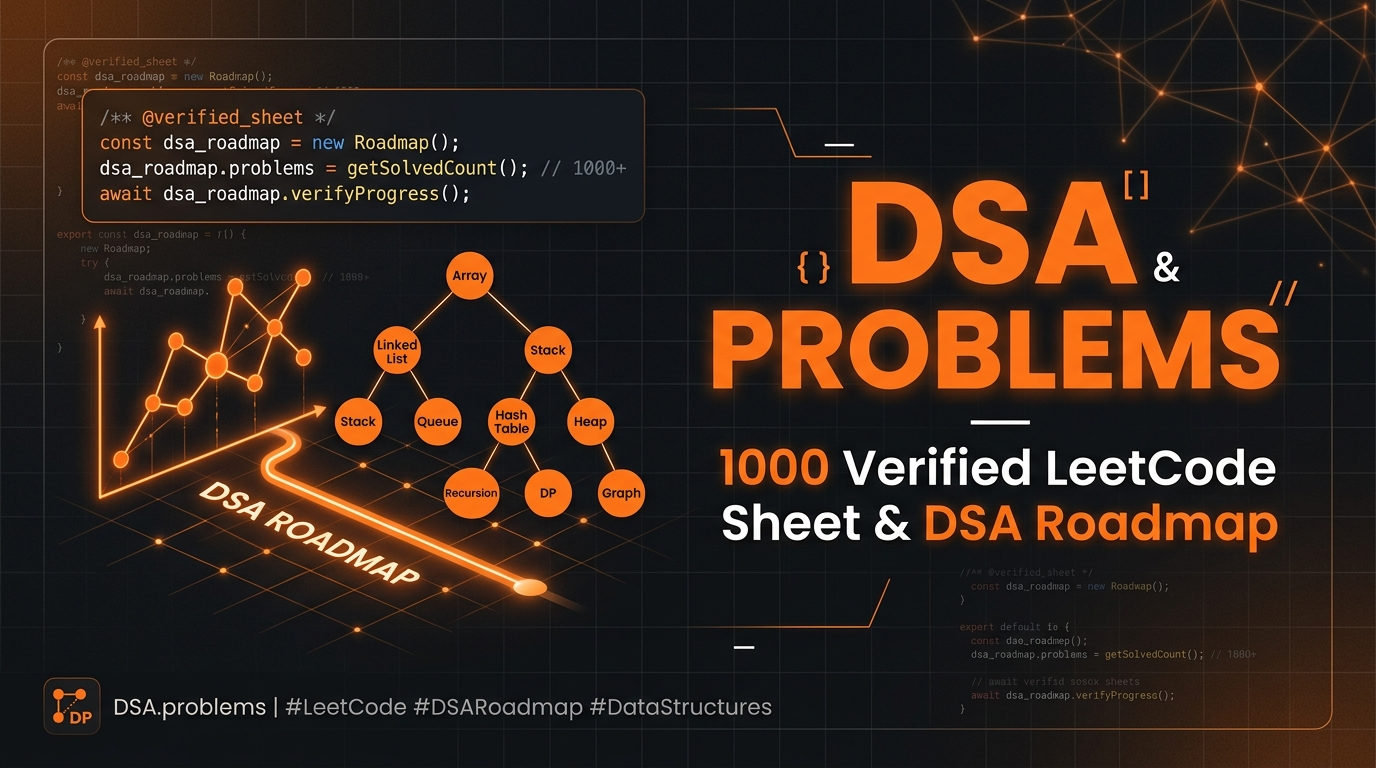
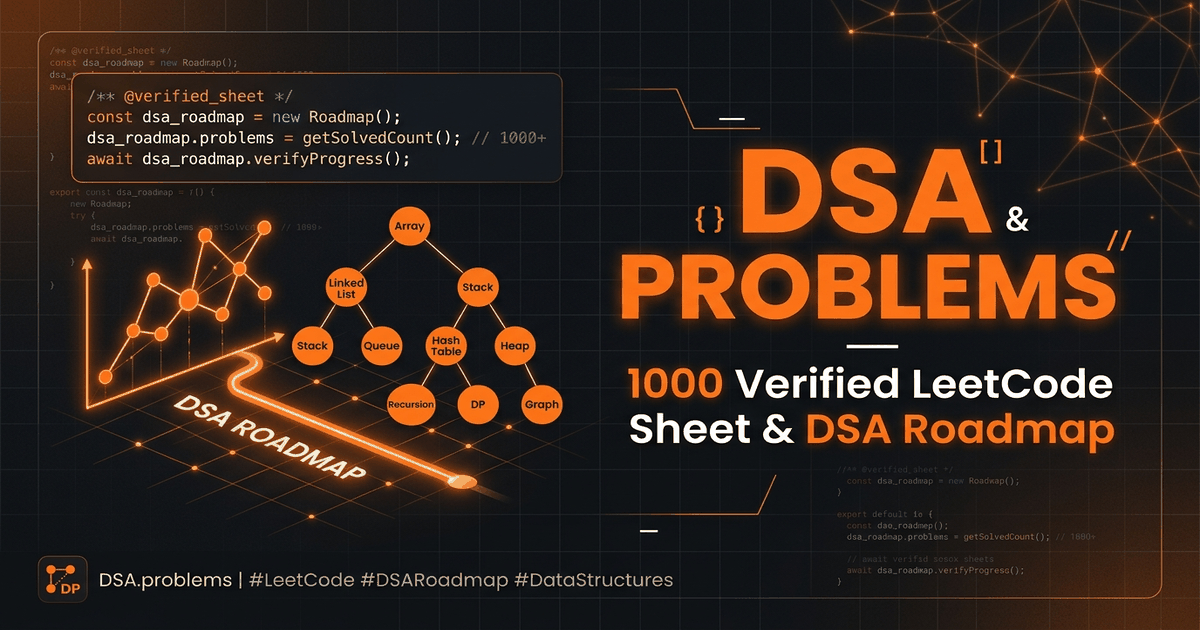
perf & a11y & ai: optimize Core Web Vitals, accessibility, JSON-LD schemas, and Agentic AI readiness

diff --git a/index.html b/index.html
@@ -237,7 +237,6 @@
 
 <!-- Datasets & Modules (Non-blocking deferred execution) -->
 <script defer src="data/questions_index.min.js"></script>
-<script defer src="data/questions.min.js"></script>
 <script defer src="data/guide_data.min.js"></script>
 <script defer src="data/patterns.js"></script>
 <script defer src="data/ds_algo_library.js"></script>
@@ -246,6 +245,23 @@
 <script defer src="js/recommendation.js"></script>
 <script defer src="js/duplicate_prevention.js"></script>
 <script defer src="app.js"></script>
+<script>
+  window.addEventListener('load', function() {
+    var loadFullData = function() {
+      if (!window.__FULL_DATA_LOADED__) {
+        window.__FULL_DATA_LOADED__ = true;
+        var s = document.createElement('script');
+        s.src = 'data/questions.min.js';
+        document.head.appendChild(s);
+      }
+    };
+    if ('requestIdleCallback' in window) {
+      requestIdleCallback(loadFullData, { timeout: 2000 });
+    } else {
+      setTimeout(loadFullData, 1000);
+    }
+  });
+</script>
 </head>
 <body>
 
@@ -269,30 +285,30 @@
 
       <!-- Desktop Nav Links (Exact Ordered Sequence) -->
       <nav class="nav-links" id="main-nav" aria-label="Main Navigation">
-        <button class="nav-btn active" data-view="problems" onclick="app.navigate('/problems')">Problems</button>
-        <button class="nav-btn" data-view="guide" onclick="app.navigate('/guide')">DSA Guide</button>
-        <button class="nav-btn" data-view="progress" onclick="app.navigate('/progress')">Progress</button>
-        <button class="nav-btn" data-view="privacy" onclick="app.navigate('/privacy')">Privacy Policy</button>
-        <button class="nav-btn" data-view="contact" onclick="app.navigate('/contact')">Contact</button>
-        <button class="nav-btn" data-view="about" onclick="app.navigate('/about')">About</button>
+        <button class="nav-btn active" data-view="problems" data-testid="nav-problems" onclick="app.navigate('/problems')">Problems</button>
+        <button class="nav-btn" data-view="guide" data-testid="nav-guide" onclick="app.navigate('/guide')">DSA Guide</button>
+        <button class="nav-btn" data-view="progress" data-testid="nav-progress" onclick="app.navigate('/progress')">Progress</button>
+        <button class="nav-btn" data-view="privacy" data-testid="nav-privacy" onclick="app.navigate('/privacy')">Privacy Policy</button>
+        <button class="nav-btn" data-view="contact" data-testid="nav-contact" onclick="app.navigate('/contact')">Contact</button>
+        <button class="nav-btn" data-view="about" data-testid="nav-about" onclick="app.navigate('/about')">About</button>
       </nav>
 
       <!-- Header Right Actions -->
       <div class="header-actions">
-        <button class="search-trigger-btn" onclick="app.openCommandPalette()" aria-label="Quick Search Problems">
+        <button class="search-trigger-btn" data-testid="search-trigger" onclick="app.openCommandPalette()" aria-label="Quick Search Problems">
           <span>Search problems...</span>
           <span class="shortcut-kbd">⌘K</span>
         </button>
 
-        <button class="share-btn-header" onclick="app.shareWebsite()" aria-label="Share DSA Sheet" title="Share DSA Sheet (🔗)">
+        <button class="share-btn-header" data-testid="share-btn" onclick="app.shareWebsite()" aria-label="Share DSA Sheet" title="Share DSA Sheet (🔗)">
           <span>🔗 Share</span>
         </button>
 
-        <button class="theme-toggle-btn" id="theme-toggle-btn" onclick="app.toggleTheme()" aria-label="Toggle Light or Dark Theme" title="Toggle Theme">
+        <button class="theme-toggle-btn" id="theme-toggle-btn" data-testid="theme-toggle" onclick="app.toggleTheme()" aria-label="Toggle Light or Dark Theme" title="Toggle Theme">
           <span class="theme-toggle-icon" id="theme-icon">☀</span>
         </button>
 
-        <button class="mobile-menu-btn" id="mobile-menu-btn" onclick="app.toggleMobileMenu()" aria-label="Toggle Mobile Navigation Menu" aria-expanded="false" aria-controls="mobile-drawer">☰</button>
+        <button class="mobile-menu-btn" id="mobile-menu-btn" data-testid="mobile-menu-btn" onclick="app.toggleMobileMenu()" aria-label="Toggle Mobile Navigation Menu" aria-expanded="false" aria-controls="mobile-drawer">☰</button>
       </div>
     </div>
   </header>
@@ -305,16 +321,16 @@
       <button class="btn-secondary" onclick="app.toggleMobileMenu(false)" aria-label="Close mobile navigation menu" style="padding: 4px 10px;">✕</button>
     </div>
     <nav style="display: flex; flex-direction: column; gap: 8px; margin-top: 12px;" aria-label="Mobile Drawer Navigation">
-      <button class="nav-btn" data-view="problems" onclick="app.navigate('/problems'); app.toggleMobileMenu(false);">Problems</button>
-      <button class="nav-btn" data-view="guide" onclick="app.navigate('/guide'); app.toggleMobileMenu(false);">DSA Guide</button>
-      <button class="nav-btn" data-view="progress" onclick="app.navigate('/progress'); app.toggleMobileMenu(false);">Progress</button>
-      <button class="nav-btn" data-view="privacy" onclick="app.navigate('/privacy'); app.toggleMobileMenu(false);">Privacy Policy</button>
-      <button class="nav-btn" data-view="contact" onclick="app.navigate('/contact'); app.toggleMobileMenu(false);">Contact</button>
-      <button class="nav-btn" data-view="about" onclick="app.navigate('/about'); app.toggleMobileMenu(false);">About</button>
+      <button class="nav-btn" data-view="problems" data-testid="mobile-nav-problems" onclick="app.navigate('/problems'); app.toggleMobileMenu(false);">Problems</button>
+      <button class="nav-btn" data-view="guide" data-testid="mobile-nav-guide" onclick="app.navigate('/guide'); app.toggleMobileMenu(false);">DSA Guide</button>
+      <button class="nav-btn" data-view="progress" data-testid="mobile-nav-progress" onclick="app.navigate('/progress'); app.toggleMobileMenu(false);">Progress</button>
+      <button class="nav-btn" data-view="privacy" data-testid="mobile-nav-privacy" onclick="app.navigate('/privacy'); app.toggleMobileMenu(false);">Privacy Policy</button>
+      <button class="nav-btn" data-view="contact" data-testid="mobile-nav-contact" onclick="app.navigate('/contact'); app.toggleMobileMenu(false);">Contact</button>
+      <button class="nav-btn" data-view="about" data-testid="mobile-nav-about" onclick="app.navigate('/about'); app.toggleMobileMenu(false);">About</button>
     </nav>
     <div style="display: flex; align-items: center; justify-content: space-between; margin-top: 16px; padding-top: 12px; border-top: 1px solid var(--border-color);">
       <span style="font-size: 13.5px; color: var(--text-secondary); font-weight: 500;">Theme</span>
-      <button class="theme-toggle-btn" onclick="app.toggleTheme()" aria-label="Toggle Light/Dark Mode">
+      <button class="theme-toggle-btn" data-testid="mobile-theme-toggle" onclick="app.toggleTheme()" aria-label="Toggle Light/Dark Mode">
         <span id="mobile-theme-label" style="font-size: 13px; font-weight: 600;">☀ Day Mode</span>
       </button>
     </div>
@@ -391,29 +407,29 @@
       <div class="filter-controls-bar">
         <div class="search-input-group">
           <svg fill="none" stroke="currentColor" viewBox="0 0 24 24" aria-hidden="true"><path stroke-linecap="round" stroke-linejoin="round" stroke-width="2" d="M21 21l-6-6m2-5a7 7 0 11-14 0 7 7 0 0114 0z"></path></svg>
-          <input type="text" class="search-input" id="problem-search-input" placeholder="Search by title, ID, topic or pattern..." aria-label="Search problems by title, ID, topic or pattern" oninput="app.handleSearchInput(this.value)"/>
+          <input type="text" class="search-input" id="problem-search-input" data-testid="problem-search-input" placeholder="Search by title, ID, topic or pattern..." aria-label="Search problems by title, ID, topic or pattern" oninput="app.handleSearchInput(this.value)"/>
         </div>
 
         <div class="filter-selects-group">
-          <select class="filter-select" id="difficulty-filter" aria-label="Filter by difficulty" onchange="app.handleDifficultyFilter(this.value)">
+          <select class="filter-select" id="difficulty-filter" data-testid="difficulty-filter" aria-label="Filter by difficulty" onchange="app.handleDifficultyFilter(this.value)">
             <option value="all">All Difficulties</option>
             <option value="Easy">Easy</option>
             <option value="Medium">Medium</option>
             <option value="Hard">Hard</option>
           </select>
 
-          <select class="filter-select" id="status-filter" aria-label="Filter by status" onchange="app.handleStatusFilter(this.value)">
+          <select class="filter-select" id="status-filter" data-testid="status-filter" aria-label="Filter by status" onchange="app.handleStatusFilter(this.value)">
             <option value="all">All Status</option>
             <option value="unsolved">Unsolved</option>
             <option value="solved">Solved</option>
             <option value="bookmarked">Bookmarked</option>
           </select>
 
-          <select class="filter-select" id="topic-filter" aria-label="Filter by topic" onchange="app.handleTopicFilter(this.value)">
+          <select class="filter-select" id="topic-filter" data-testid="topic-filter" aria-label="Filter by topic" onchange="app.handleTopicFilter(this.value)">
             <option value="all">All Topics</option>
           </select>
 
-          <select class="filter-select" id="pattern-filter" aria-label="Filter by pattern" onchange="app.handlePatternFilter(this.value)">
+          <select class="filter-select" id="pattern-filter" data-testid="pattern-filter" aria-label="Filter by pattern" onchange="app.handlePatternFilter(this.value)">
             <option value="all">All Patterns</option>
           </select>
         </div>
@@ -421,8 +437,8 @@
 
       <!-- Results Count Info -->
       <div class="results-meta-row">
-        <div>Showing <span id="results-count">50</span> of <span id="total-results-count">1000</span> problems</div>
-        <button class="btn-reset-filters" id="btn-reset-filters" onclick="app.resetFilters()" aria-label="Reset search filters">↺ Reset Filters</button>
+        <div>Showing <span id="results-count" aria-live="polite">50</span> of <span id="total-results-count">1000</span> problems</div>
+        <button class="btn-reset-filters" id="btn-reset-filters" data-testid="btn-reset-filters" onclick="app.resetFilters()" aria-label="Reset search filters">↺ Reset Filters</button>
       </div>
 
       <!-- Desktop Table Container -->
@@ -454,9 +470,9 @@
       <div class="pagination-bar">
         <div id="pagination-info">Showing 1–50 of 1000</div>
         <nav class="pagination-controls" id="pagination-controls-container" aria-label="Pagination Navigation">
-          <button class="page-btn" id="btn-prev-page" onclick="app.changePage(-1)" aria-label="Go to previous page">← Previous</button>
+          <button class="page-btn" id="btn-prev-page" data-testid="btn-prev-page" onclick="app.changePage(-1)" aria-label="Go to previous page">← Previous</button>
           <span id="page-numbers-container" style="font-weight: 600; padding: 0 4px;">Page 1</span>
-          <button class="page-btn" id="btn-next-page" onclick="app.changePage(1)" aria-label="Go to next page">Next →</button>
+          <button class="page-btn" id="btn-next-page" data-testid="btn-next-page" onclick="app.changePage(1)" aria-label="Go to next page">Next →</button>
         </nav>
       </div>
 
@@ -693,7 +709,7 @@
   <div class="modal-overlay" id="command-palette-modal" role="dialog" aria-modal="true" aria-label="Quick Search Command Palette" onclick="if(event.target === this) app.closeCommandPalette()">
     <div class="modal-container" style="max-width: 600px;">
       <div style="padding: 12px 16px; border-bottom: 1px solid var(--border-color);">
-        <input type="text" class="search-input" id="cmd-palette-input" placeholder="Type to search 1000 problems..." aria-label="Type to search 1000 problems" oninput="app.handleCmdPaletteSearch(this.value)"/>
+        <input type="text" class="search-input" id="cmd-palette-input" data-testid="cmd-palette-input" placeholder="Type to search 1000 problems..." aria-label="Type to search 1000 problems" oninput="app.handleCmdPaletteSearch(this.value)"/>
       </div>
       <div style="max-height: 400px; overflow-y: auto; padding: 12px 16px;" id="cmd-palette-results">
         <!-- Dynamic search items -->

diff --git a/app.js b/app.js
@@ -600,7 +600,7 @@ class DSAApp {
           : `<span class="btn-solve disabled" title="Original problem — No direct LeetCode match">No Direct Match</span>`;
 
         // Desktop Row HTML
-        tableRowsHtml += `<tr class="${isSolved ? 'solved-row' : ''}">
+        tableRowsHtml += `<tr class="${isSolved ? 'solved-row' : ''}" data-testid="problem-row-${p.id}">
           <td class="col-num">${formattedId}</td>
           <td class="col-title">
             <a class="problem-title-link" href="javascript:void(0)" onclick="app.openProblemModal(${p.id})" tabindex="0" role="button" aria-label="View problem ${formattedId} details: ${this.escapeHtml(p.title)}">${this.escapeHtml(p.title)}</a>
@@ -613,8 +613,8 @@ class DSAApp {
             ${ctaBtnHtml}
           </td>
           <td class="col-status">
-            <input type="checkbox" class="status-checkbox" ${isSolved ? 'checked' : ''} onchange="app.toggleSolved(${p.id})" aria-label="Mark problem ${formattedId} solved"/>
-            <button class="bookmark-btn ${isBm ? 'active' : ''}" onclick="app.toggleBookmark(${p.id})" aria-label="Bookmark problem ${formattedId}">${isBm ? '★' : '☆'}</button>
+            <input type="checkbox" class="status-checkbox" data-testid="solved-checkbox-${p.id}" ${isSolved ? 'checked' : ''} onchange="app.toggleSolved(${p.id})" aria-label="Mark problem ${formattedId} solved"/>
+            <button class="bookmark-btn ${isBm ? 'active' : ''}" data-testid="bookmark-btn-${p.id}" onclick="app.toggleBookmark(${p.id})" aria-label="Bookmark problem ${formattedId}">${isBm ? '★' : '☆'}</button>
           </td>
         </tr>`;
 

diff --git a/scripts/test_app_suite.js b/scripts/test_app_suite.js
@@ -157,7 +157,7 @@ const mobileViews = [...mobileDrawerMatch[1].matchAll(/data-view=["']([^"']+)["'
 assert(JSON.stringify(mobileViews) === JSON.stringify(expectedNavOrder), `Mobile drawer nav order mismatch: expected ${expectedNavOrder.join(', ')} but got ${mobileViews.join(', ')}`);
 
 // Extract footer links
-const footerMatch = indexHtml.match(/<div[^>]*class=["']footer-links["'][^>]*>([\s\S]*?)<\/div>/);
+const footerMatch = indexHtml.match(/<(?:div|nav)[^>]*class=["']footer-links["'][^>]*>([\s\S]*?)<\/(?:div|nav)>/);
 assert(footerMatch, "footer-links element must exist in index.html");
 const footerHrefs = [...footerMatch[1].matchAll(/href=["']\/([^"']+)["']/g)].map(m => m[1]);
 assert(JSON.stringify(footerHrefs) === JSON.stringify(expectedNavOrder), `Footer nav order mismatch: expected ${expectedNavOrder.join(', ')} but got ${footerHrefs.join(', ')}`);
